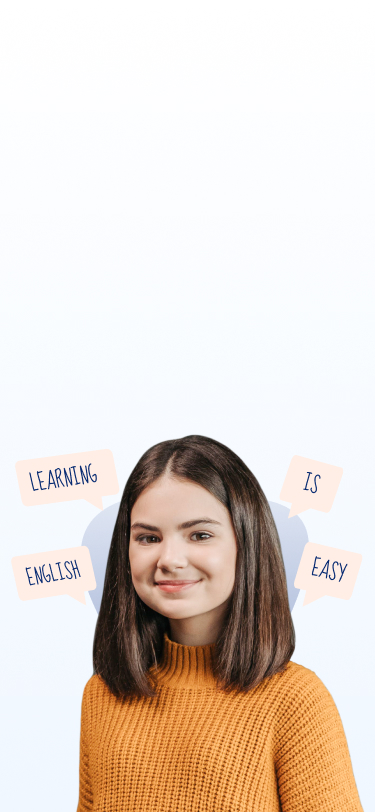
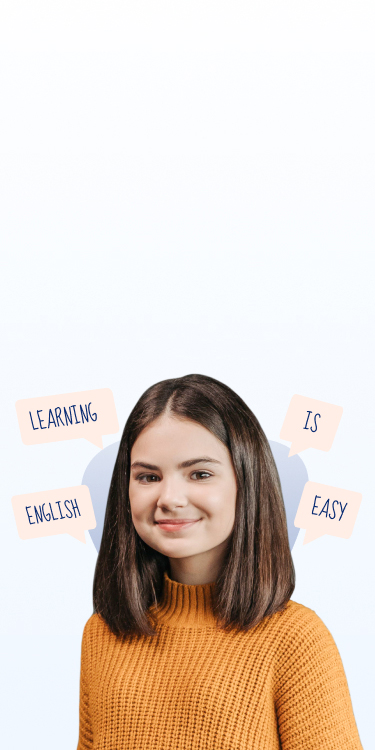
[IMP] - Mobile Responsive Optimization

Changed region(s): [[0.0293, 0.4907, 0.968, 1.0]]

diff --git a/css/style.css b/css/style.css
@@ -79,7 +79,7 @@ button {
   font-family: inherit;
 }
 
-@media (max-width: 767.98px) {
+@media (max-width: 1023.98px) {
   #aboutSection,
   #programsSection,
   #gallerySection {
@@ -115,7 +115,7 @@ button {
   display: none!important;
 }
 
-@media (max-width: 767.98px) {
+@media (max-width: 1023.98px) {
   .container {
     margin: 0 auto;
     max-width: 90%;
@@ -271,7 +271,7 @@ h6 {
   height: 6px;
 }
 
-@media (max-width: 767.98px) {
+@media (max-width: 1023.98px) {
   .h1 {
     font-size: 10.66vw;
   }
@@ -348,7 +348,7 @@ h6 {
   margin-right: .5vw;
 }
 
-@media (max-width: 767.98px) {
+@media (max-width: 1023.98px) {
   .btn {
     font-size: 4.8vw;
     height: 14.4vw;
@@ -373,7 +373,7 @@ h6 {
   margin-left: .75vw;
 }
 
-@media (max-width: 767.98px) {
+@media (max-width: 1023.98px) {
   .link img {
     width: 2.5vw;
     margin-left: 3vw;
@@ -397,7 +397,7 @@ h6 {
   background-color: #E34B4E;
 }
 
-@media (max-width: 767.98px) {
+@media (max-width: 1023.98px) {
   .line::after {
     height: 1vw;
     width: 24vw;
@@ -443,7 +443,7 @@ h6 {
   font-weight: 300;
 }
 
-@media (max-width: 767.98px) {
+@media (max-width: 1023.98px) {
   .section-heading {
     margin-bottom: 12vw;
   }
@@ -469,7 +469,7 @@ h6 {
   margin-right: 2.08vw;
 }
 
-@media (max-width: 767.98px) {
+@media (max-width: 1023.98px) {
   .social-icons img {
     width: 9vw;
   }
@@ -487,7 +487,7 @@ h6 {
   margin-top: 1.3vw;
 }
 
-@media (max-width: 767.98px) {
+@media (max-width: 1023.98px) {
   .stars {
     font-size: 6vw!important;
     letter-spacing: 2vw;
@@ -535,7 +535,7 @@ h6 {
   display: none;
 }
 
-@media (max-width: 767.98px) {
+@media (max-width: 1023.98px) {
   .header .container {
     padding: 2.66vw 0;
   }
@@ -816,7 +816,7 @@ h6 {
   margin-top: 4vw;
 }
 
-@media (max-width: 767.98px) {
+@media (max-width: 1023.98px) {
   .footer {
     padding: 8vw 0 25vw 0;
   }
@@ -932,7 +932,7 @@ h6 {
   bottom: 6.25vw;
 }
 
-@media (max-width: 767.98px) {
+@media (max-width: 1023.98px) {
   .hero {
     position: relative;
   }
@@ -966,9 +966,6 @@ h6 {
   .hero-img img,
   .hero-img picture {
     width: 100%;
-    max-height: 98vh;
-    object-fit: cover;
-    object-position: bottom center;
   }
 }
 
@@ -1020,7 +1017,7 @@ h6 {
   border-bottom-right-radius: 2.6vw;
 }
 
-@media (max-width: 767.98px) {
+@media (max-width: 1023.98px) {
   .about-us {
     padding: 8vw 0 20vw 0;
     background-image: none;
@@ -1091,7 +1088,11 @@ h6 {
   margin-bottom: 1.4vw;
 }
 
-@media (max-width: 767.98px) {
+.gallery-grid li img {
+  width: 100%;
+}
+
+@media (max-width: 1023.98px) {
   .gallery {
     padding: 12vw 0 20vw 0;
   }
@@ -1171,7 +1172,7 @@ h6 {
   border-radius: 1.5vw;
 }
 
-@media (max-width: 767.98px) {
+@media (max-width: 1023.98px) {
   .faq {
     padding: 12vw 0 20vw 0;
   
@@ -1320,7 +1321,7 @@ h6 {
   left: 4vw;
 }
 
-@media (max-width: 767.98px) {
+@media (max-width: 1023.98px) {
   .reviews {
     padding: 8vw 0 15vw 0;
     background-image: none;
@@ -1454,7 +1455,7 @@ h6 {
   margin-right: 1vw;
 }
 
-@media (max-width: 767.98px) {
+@media (max-width: 1023.98px) {
   .steps {
     padding: 8vw 0 20vw 0;
   }
@@ -1611,7 +1612,7 @@ h6 {
   margin: 2vw 0 2.5vw 0;
 }
 
-@media (max-width: 767.98px) {
+@media (max-width: 1023.98px) {
   .programs {
     padding: 8vw 0 20vw 0;
     background-image: none;
@@ -1681,7 +1682,7 @@ h6 {
   display: none;
 }
 
-@media (max-width: 767.98px) {
+@media (max-width: 1023.98px) {
   .sticky-menu-mobile {
     display: block;
     position: fixed;

diff --git a/js/app.js b/js/app.js
@@ -112,7 +112,7 @@ const swiper = new Swiper('.swiper', {
   slidesPerView: 1,
   breakpoints: {
     // when window width is >= 1024px
-    768: {
+    1024: {
       slidesPerView: 3
     }
   },
